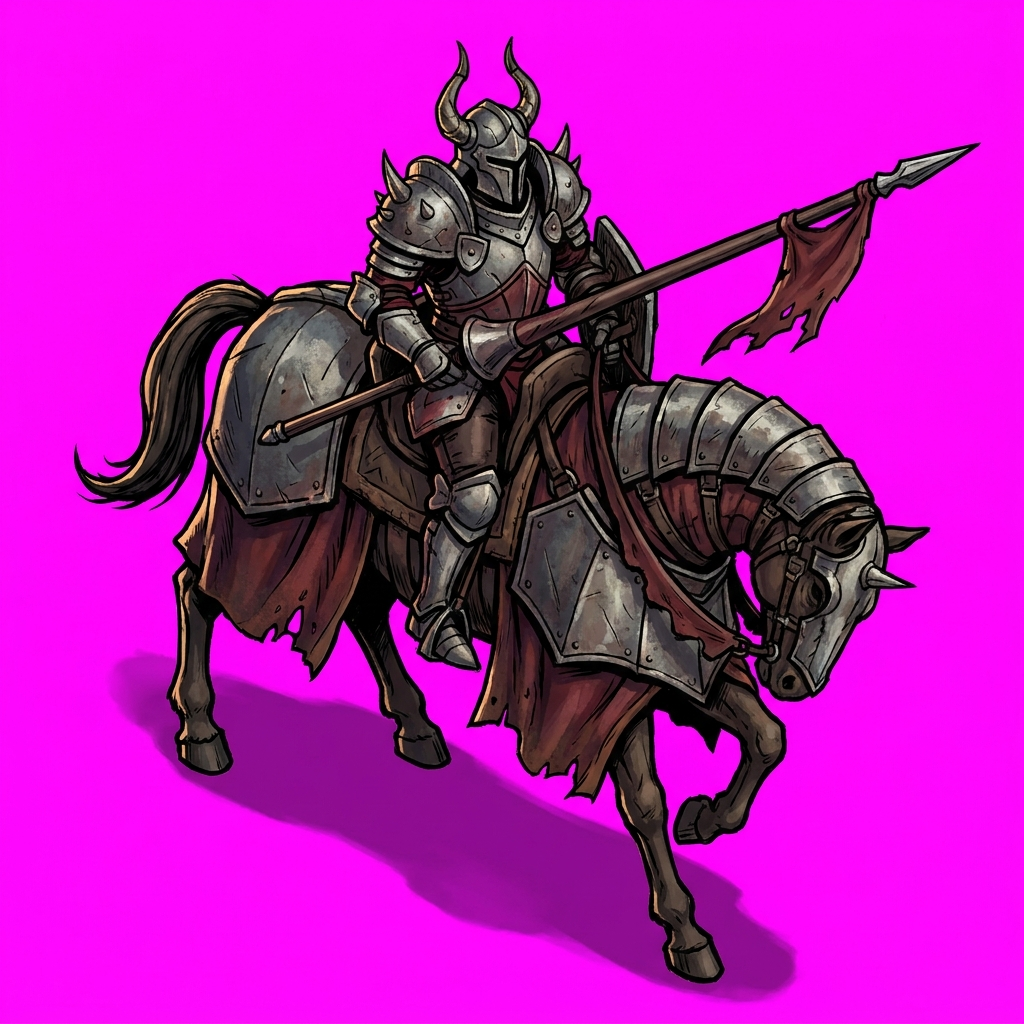
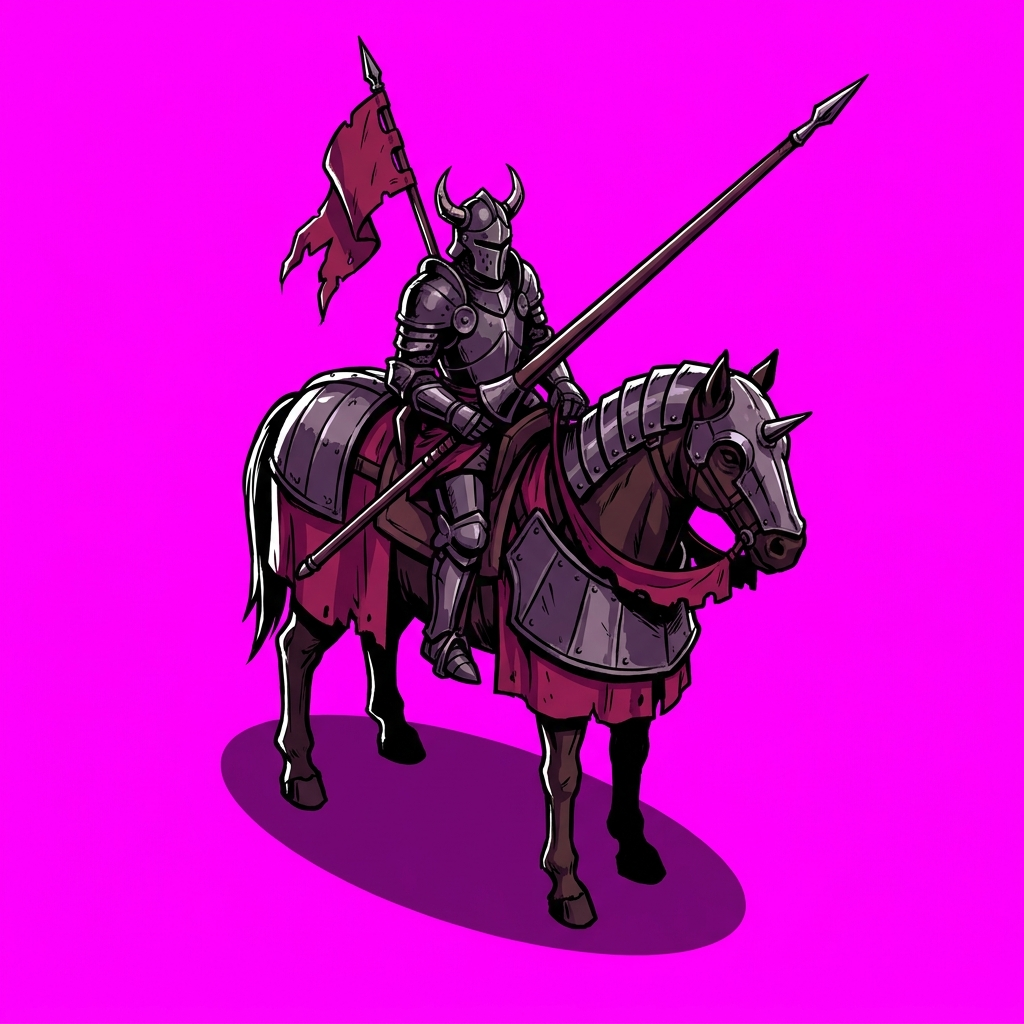
v0.198.0 — fix griffin pulse, knight rest pose, mage/warlock walk
- sliceGridUniform(): flap sheets (dragon+griffin) cropped to a shared union box so
  every frame is the same size — body no longer pulses bigger/smaller as the wings
  raise/lower (renderer scales to fixed height). Frames now 316x449.
- Regenerated gen_knight as a calm standing pose (4 hooves down, lance upright,
  same barding/helm/crimson as the gallop); idle no longer rears. Old -> archive.
- gen_mage_walk + gen_orccaster_walk (4-frame): casters now walk while moving
  (cast cycle on attack, relaxed frame when idle). Inlined offline.
Verified: griffin/dragon frame dims uniform, mage/warlock walk load 4, scene renders.

diff --git a/src/game/render/assets.ts b/src/game/render/assets.ts
@@ -109,6 +109,73 @@ function sliceGrid(
   return out;
 }
 
+/**
+ * Like sliceGrid but every frame comes out the SAME size — cropped to the UNION
+ * bbox across all cells (relative to each cell origin). Use for cycles whose
+ * silhouette changes a lot frame-to-frame (flyers' wings): per-frame trimming
+ * makes the body pulse bigger/smaller when the renderer scales to a fixed height,
+ * whereas a shared box keeps the body anchored and only the wings move within it.
+ */
+function sliceGridUniform(
+  img: HTMLImageElement,
+  cols: number,
+  rows: number,
+  order: string[],
+): Map<string, CanvasImageSource> {
+  const out = new Map<string, CanvasImageSource>();
+  const W = img.width;
+  const H = img.height;
+  const full = document.createElement("canvas");
+  full.width = W;
+  full.height = H;
+  const fx = full.getContext("2d");
+  if (!fx) return out;
+  fx.drawImage(img, 0, 0);
+  let data: ImageData;
+  try {
+    data = fx.getImageData(0, 0, W, H);
+  } catch {
+    return out;
+  }
+  const p = data.data;
+  for (let i = 0; i < p.length; i += 4) {
+    if (isMagenta(p[i], p[i + 1], p[i + 2])) p[i + 3] = 0;
+  }
+  fx.putImageData(data, 0, 0);
+  const cw = Math.floor(W / cols);
+  const ch = Math.floor(H / rows);
+  // First pass: per-cell content bbox relative to its cell origin → union it.
+  let uminx = 1e9, uminy = 1e9, umaxx = -1, umaxy = -1;
+  order.forEach((_name, idx) => {
+    const qx = (idx % cols) * cw;
+    const qy = Math.floor(idx / cols) * ch;
+    for (let y = 0; y < ch; y++) {
+      for (let x = 0; x < cw; x++) {
+        if (p[((qy + y) * W + (qx + x)) * 4 + 3] > 40) {
+          if (x < uminx) uminx = x;
+          if (x > umaxx) umaxx = x;
+          if (y < uminy) uminy = y;
+          if (y > umaxy) umaxy = y;
+        }
+      }
+    }
+  });
+  if (umaxx < 0) return out;
+  const w = umaxx - uminx + 1;
+  const h = umaxy - uminy + 1;
+  // Second pass: crop the SAME box out of every cell → uniform frames.
+  order.forEach((name, idx) => {
+    const qx = (idx % cols) * cw;
+    const qy = Math.floor(idx / cols) * ch;
+    const c = document.createElement("canvas");
+    c.width = w;
+    c.height = h;
+    c.getContext("2d")?.drawImage(full, qx + uminx, qy + uminy, w, h, 0, 0, w, h);
+    out.set(name, c);
+  });
+  return out;
+}
+
 /** Knock out a sprite sheet's flat background colour (sampled from a corner). */
 function chromaKey(img: HTMLImageElement): CanvasImageSource {
   const cv = document.createElement("canvas");
@@ -173,6 +240,9 @@ export class Assets {
   /** Caster cast cycles [gather, charge, release] per faction (mage vs warlock). */
   mageCastFrames: CanvasImageSource[] = [];
   orcCasterCastFrames: CanvasImageSource[] = [];
+  /** Caster 4-frame walk cycles per faction (mage vs warlock), while moving. */
+  mageWalkFrames: CanvasImageSource[] = [];
+  orcCasterWalkFrames: CanvasImageSource[] = [];
   /** Mounted gallop cycles (4 frames) per faction (knight horse vs orc wolf). */
   knightGallopFrames: CanvasImageSource[] = [];
   wolfriderGallopFrames: CanvasImageSource[] = [];
@@ -396,6 +466,23 @@ export class Assets {
         if (fr.every(Boolean)) this.orcArcherShotFrames = fr as CanvasImageSource[];
       }),
     );
+    // Caster walk cycles: human mage + orc warlock.
+    jobs.push(
+      load(inl?.mageWalk ?? "/gen_mage_walk.jpg").then((img) => {
+        if (!img) return;
+        const m = sliceGrid(img, 4, 1, ["w0", "w1", "w2", "w3"]);
+        const fr = [m.get("w0"), m.get("w1"), m.get("w2"), m.get("w3")];
+        if (fr.every(Boolean)) this.mageWalkFrames = fr as CanvasImageSource[];
+      }),
+    );
+    jobs.push(
+      load(inl?.orcCasterWalk ?? "/gen_orccaster_walk.jpg").then((img) => {
+        if (!img) return;
+        const m = sliceGrid(img, 4, 1, ["w0", "w1", "w2", "w3"]);
+        const fr = [m.get("w0"), m.get("w1"), m.get("w2"), m.get("w3")];
+        if (fr.every(Boolean)) this.orcCasterWalkFrames = fr as CanvasImageSource[];
+      }),
+    );
     // Mounted gallop cycles: human knight (horse) + orc wolf-rider.
     jobs.push(
       load(inl?.knightGallop ?? "/gen_knight_gallop.jpg").then((img) => {
@@ -434,7 +521,7 @@ export class Assets {
     jobs.push(
       load(inl?.dragonFly ?? "/gen_dragon_fly.jpg").then((img) => {
         if (!img) return;
-        const m = sliceGrid(img, 5, 1, ["d0", "d1", "d2", "d3", "d4"]);
+        const m = sliceGridUniform(img, 5, 1, ["d0", "d1", "d2", "d3", "d4"]);
         const fr = [m.get("d0"), m.get("d1"), m.get("d2"), m.get("d3"), m.get("d4")];
         if (fr.every(Boolean)) this.dragonFlapFrames = fr as CanvasImageSource[];
       }),
@@ -442,7 +529,7 @@ export class Assets {
     jobs.push(
       load(inl?.griffinFly ?? "/gen_griffin_fly.jpg").then((img) => {
         if (!img) return;
-        const m = sliceGrid(img, 5, 1, ["f0", "f1", "f2", "f3", "f4"]);
+        const m = sliceGridUniform(img, 5, 1, ["f0", "f1", "f2", "f3", "f4"]);
         const fr = [m.get("f0"), m.get("f1"), m.get("f2"), m.get("f3"), m.get("f4")];
         if (fr.every(Boolean)) this.griffinFlapFrames = fr as CanvasImageSource[];
       }),

diff --git a/src/game/render/Renderer.ts b/src/game/render/Renderer.ts
@@ -1231,13 +1231,15 @@ export class Renderer {
     } else if (u.kind === "mage") {
       // Charge the staff only while casting; otherwise hold it lowered (frame 0).
       const cast = isEnemy ? this.assets.orcCasterCastFrames : this.assets.mageCastFrames;
-      if (cast.length > 0) {
-        if (u.attackAnim > 0) {
-          const ph = u.attackAnim / ATTACK_ANIM_DUR; // 1 just cast → 0
-          sprite = cast[Math.min(cast.length - 1, Math.floor((1 - ph) * cast.length))];
-        } else {
-          sprite = cast[0];
-        }
+      const walk = isEnemy ? this.assets.orcCasterWalkFrames : this.assets.mageWalkFrames;
+      const moving = u.path.length > 0 || u.finalTarget !== null;
+      if (u.attackAnim > 0 && cast.length > 0) {
+        const ph = u.attackAnim / ATTACK_ANIM_DUR; // 1 just cast → 0
+        sprite = cast[Math.min(cast.length - 1, Math.floor((1 - ph) * cast.length))];
+      } else if (moving && walk.length === 4) {
+        sprite = walk[Math.floor(this.now * 8 + u.pos.x * 0.05) % 4];
+      } else if (cast.length > 0) {
+        sprite = cast[0]; // relaxed, staff lowered
       }
     }
     let spriteW = 0;

diff --git a/CHANGELOG.md b/CHANGELOG.md
@@ -6,6 +6,18 @@ working tree back to one: `git checkout v0.3.0` (and `git checkout main` to
 return). The autonomous improvement loop bumps the minor version and tags a new
 snapshot after each major change.
 
+## v0.198.0 — Animation fixes: griffin pulse, knight rest, mage walk _(2026-06-08)_
+- **Griffin/dragon no longer grow & shrink in flight.** The flap frames were each
+  bbox-trimmed to their own size, so wings-up frames (taller) made the renderer
+  scale the body down. New `sliceGridUniform` crops all flap frames to a shared
+  union box, so the body stays put and only the wings move (frames now 316×449).
+- **Knight rests properly.** Regenerated the idle base sprite as a calm standing
+  warhorse on all four hooves with the lance upright (was a rearing/charging pose);
+  keeps the gallop's barding + horned helm so idle↔move stays consistent.
+- **Mage (and warlock) now walk.** New 4-frame caster walk cycles; a moving caster
+  strides instead of gliding (casting still plays the cast cycle, idle the relaxed
+  pose). Old knight sprite archived.
+
 ## v0.197.0 — Size-scaled death cries _(2026-06-07)_
 - Death sounds now **pitch with the unit's size** — small units yelp higher, a
   dragon dies with a low, drawn-out roar. The death event carries the unit's body